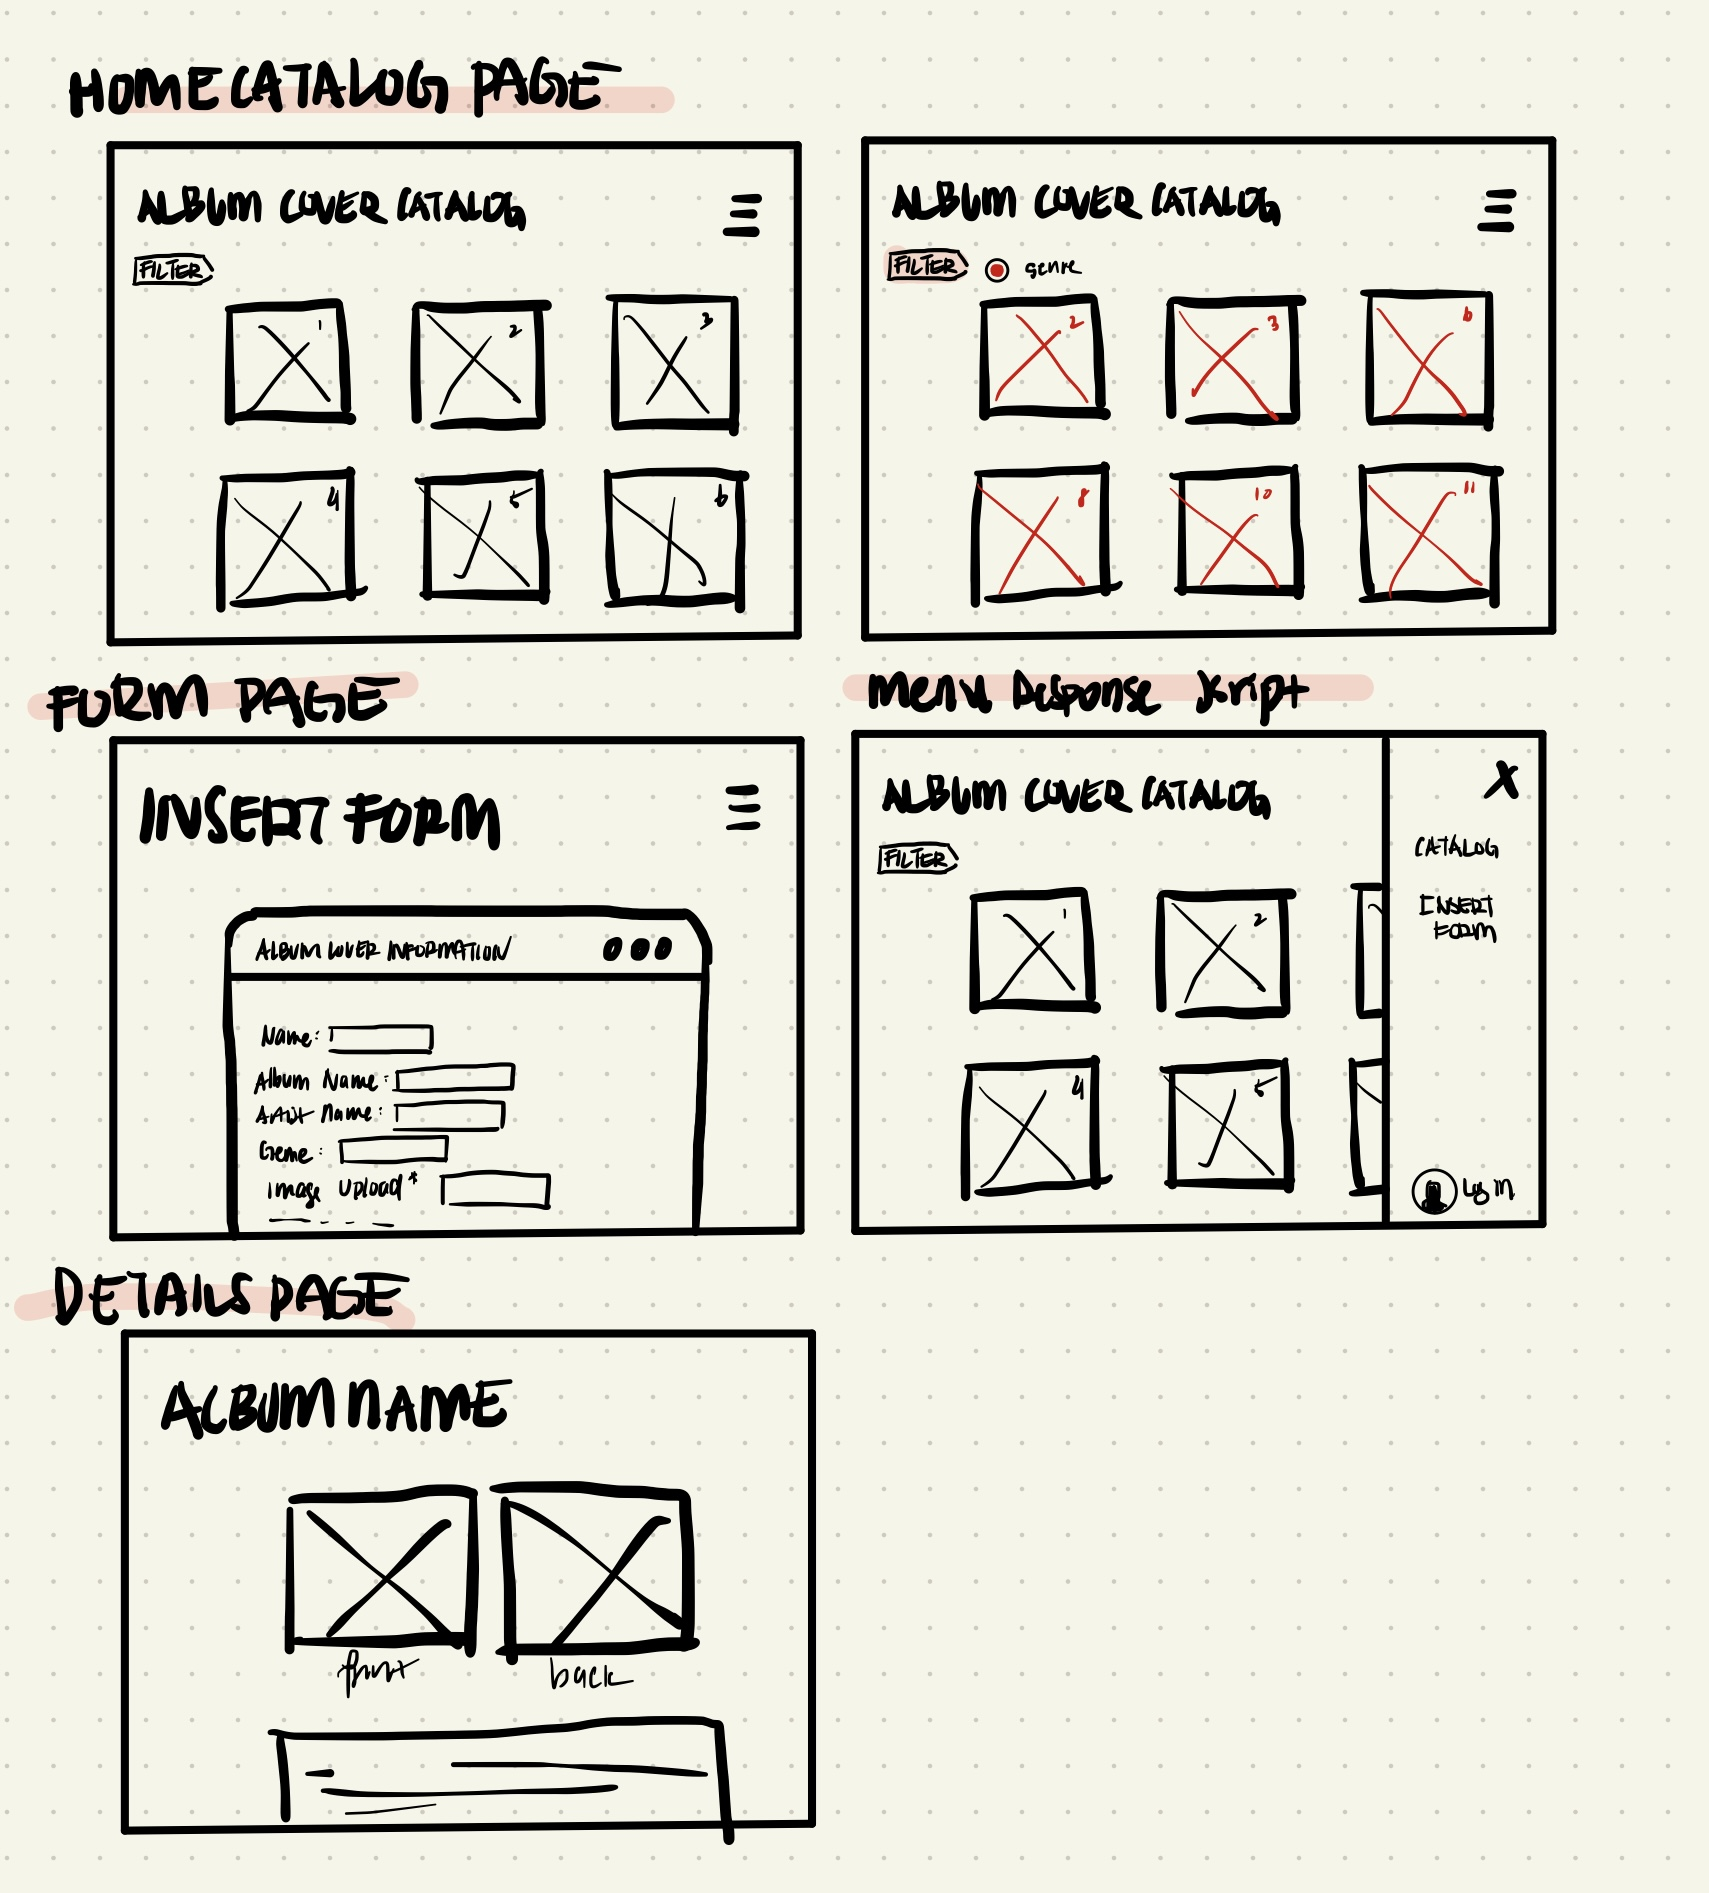
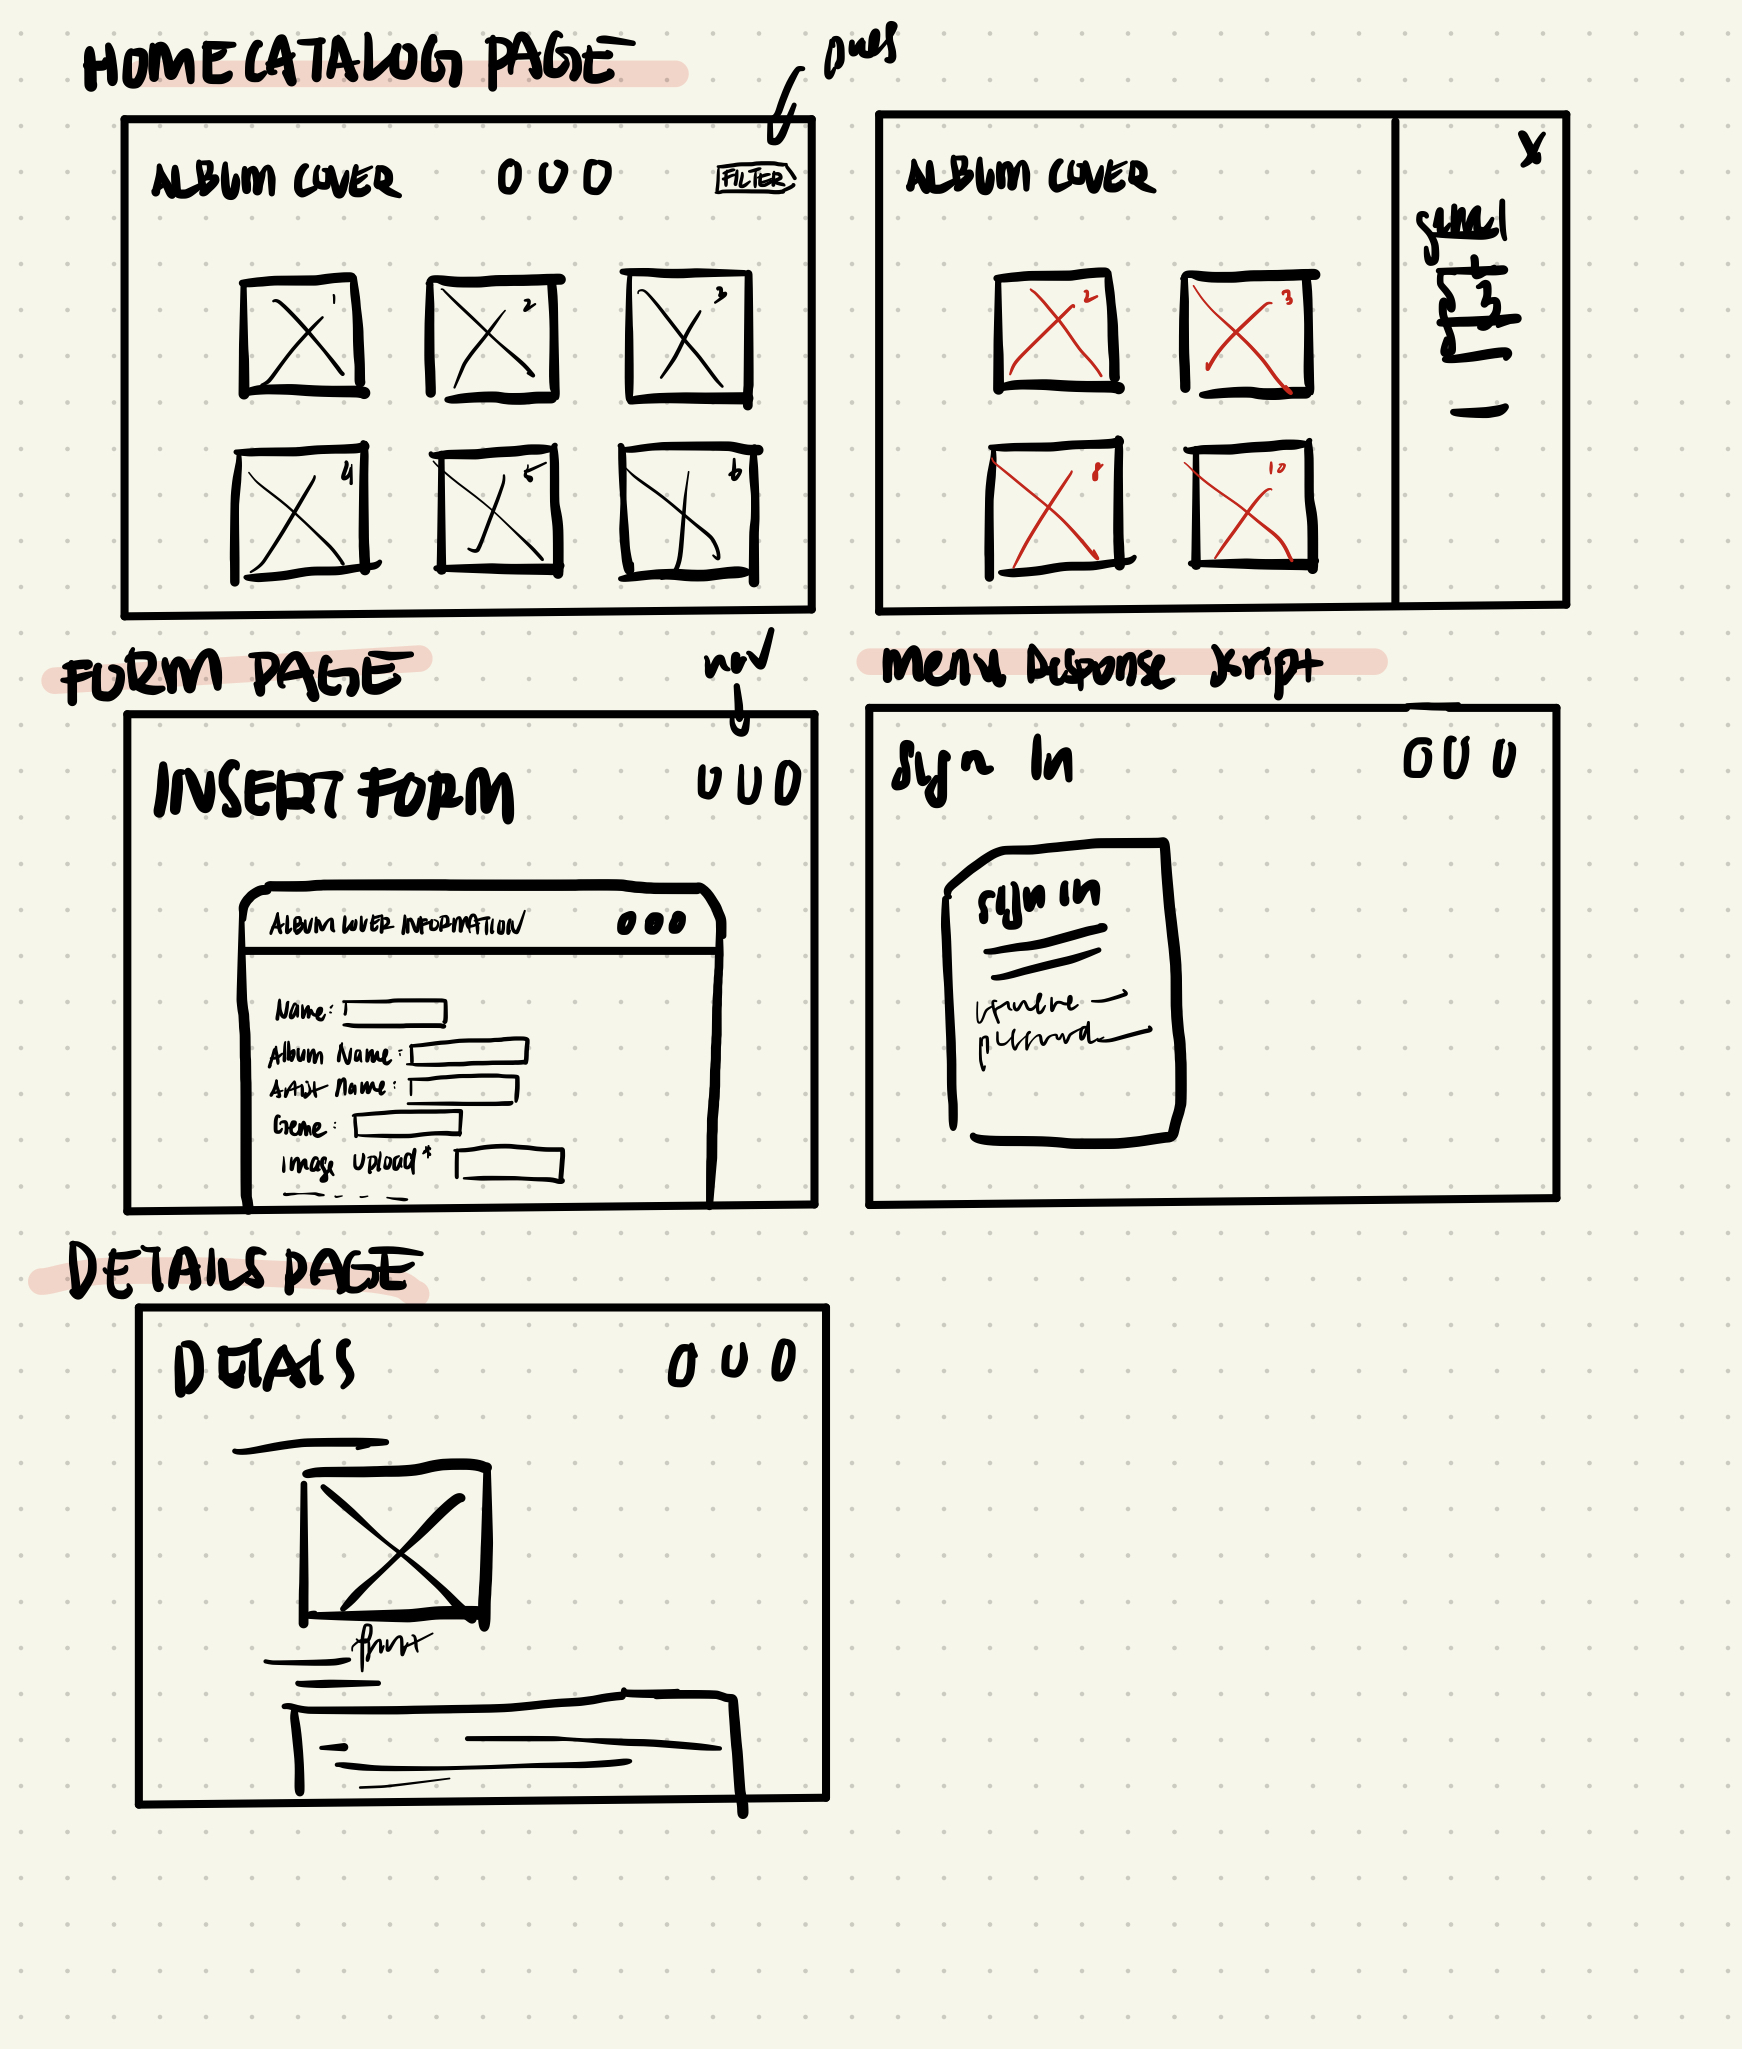
update

Changed region(s): [[0.0, 0.0, 0.9304, 0.9662], [0.093, 0.9662, 0.124, 0.9974]]

diff --git a/public/styles/site.css b/public/styles/site.css
@@ -23,7 +23,7 @@ button {
   z-index: 1;
   top: 0;
   right: 0;
-  background-color: #111;
+  background-color: #06304e;
   overflow-x: hidden;
   padding-top: 60px;
   transition: 0.5s;
@@ -61,7 +61,7 @@ button {
 /* header */
 header {
   color: #ffcdca;
-  background-color: #06304e;
+  background-color: #06304eef;
   /* padding: 1px 0 30px 0; */
     position: fixed;
     top: 0px;
@@ -92,7 +92,7 @@ header #title {
   padding-bottom: 20px;
 
   text-align: center;
-  padding-left: 250px;
+  padding-left: 75px;
   list-style: none;
 }
 
@@ -112,8 +112,34 @@ header #title {
   color:#ffcdca;;
 }
 
-#menu a:hover {
+#menu-2 a:hover {
   color: #ffcdca;;
+}
+
+#menu-2 {
+  display: inline;
+}
+
+#menu-2 ul {
+  margin-top: -75px;
+  padding-bottom: 20px;
+
+  text-align: center;
+  padding-left: 75px;
+  list-style: none;
+}
+
+#menu-2 li {
+  margin: 0;
+  display: inline-block;
+  text-decoration: none;
+  float: right;
+  padding-right: 40px;
+}
+
+#menu-2 li img {
+  width: 35px;
+  height: 35px;
 }
 
 
@@ -142,7 +168,7 @@ main.entry {
 main.entry .gallery ul {
     display: grid;
     grid-template-columns: repeat( auto-fit, 350px);
-    /* justify-content: space-around; */
+    justify-content: space-around;
     list-style: none;
     padding: 10px;
     align-items: center;
@@ -153,6 +179,7 @@ main.entry .gallery ul {
     margin: 20px;
     align-items: center;
     justify-content: center;
+    margin-left: -20px;
   }
 
   main.entry .entry li>a {

diff --git a/includes/header.php b/includes/header.php
@@ -1,7 +1,7 @@
 <header>
   <h1 id="title">ALBUM COVERS<?php echo htmlspecialchars($title); ?></h1>
 
-  <nav id="menu">
+  <nav id="menu-2">
     <ul>
       <!-- icon from https://pngtree.com/so/cd-icons -->
       <li class="<?php echo $nav_home_class; ?>"><a href="/"><img src="../public/images/cd.png" alt="filter"></a></li>

diff --git a/design-plan/design-journey.md b/design-plan/design-journey.md
@@ -141,23 +141,23 @@ Cassie
 
 **Factors that Influence Behavior:**
 
-- Exposure to a wider audience
-- The search for more inspiring creators
+- Exposure to a wider collection
+- Easy to filter through genres
 
 **Goals:**
 
-- Showcase Cassie's works on album covers
-- Joining an interactive platform and sharing inspiration for other artist's
+- Find pretty album covers and make a collection for herself
+- Know what type of genres each album is
 
 **Obstacles:**
 
-- Difficulty in finding a platform to share Cassie's highlighted works besides from her individual sites/social media
-- Finding other artists that also design album covers and searching for inspiration
+- Hard to find a collection of cool album covers to look at for design reference and for fun
+- Hard to figure out what type of albums are what genre and if there is a pattern in the art
 
 **Desires:**
 
-- Able to easily insert Cassie's works into the catalog
-- For other people to be able to view Cassies's works and perhaps have contact information for those who are interested in her works
+- Able to find different references for album designs
+- Have a easy to see grid of albums wwith details about each album as well
 
 ### Catalog Data (Milestone 1)
 > Using your personas, identify the data you need to include in the catalog for your site's audiences.
@@ -165,16 +165,13 @@ Cassie
 
 Album Name
 Artist Name
-Album Cover Designer
 Album Year Released
-Album Genre
+Album Genres
 Album Cover Illustrations
-Description
-Designer Contact Information
-Insert Form
+Upload Form
 
 
-These are important data to help Cassie reach a wider audience and being able to leave their contact information. There is also an insert form for her to insert more of her works if she wants to share more recent works. The audience is also able to know which album for which singer she designed the cover for.
+These are important data to help Cassie to have a well-rounded background of each album for her own collection. Not only will she be able to see the visuals of the album cover but more details about each album.
 
 
 ### Site Design (Milestone 1)
@@ -190,14 +187,14 @@ These are important data to help Cassie reach a wider audience and being able to
 > **Refer to your persona by name in each explanation.**
 
  ![sketch](/design-plan/sketch.jpg)
-For the catalog home page, it is a matrix style catalog with thumbnails that lead to a details page with more information of the album cover thumbnail that was pressed by Jenny. Jenny can also filter the album covers by genre with the filter button.
+For the catalog home page, it is a matrix style catalog with thumbnails that lead to a details page with more information of the album cover thumbnail that was pressed by Cassie. Cassie can add entries by pressing the upload icon in the middle.
 
-Moreover, for Cassie, there is an insert form that can be accessed when logged in and found by pressing the hamburger menu.
+Moreover, for Jenny, she can filter the album covers by genre with the filter button.
 
 ### Catalog Design Patterns (Milestone 1)
 > Explain how you used design patterns in your site's design. (1-2 sentences)
 
-I used design patterns of alignment through the matrix of thumbnails. I also used responsivenes design through the hamburger menu.
+I used design patterns of alignment through the matrix of thumbnails. I also used responsivenes design through the filter button.
 
 ## Implementation Plan (Milestone 1, Milestone 2, Milestone 3, Final Submission)
 
@@ -251,31 +248,29 @@ CREATE TABLE tags (
 > Tell us what issues you discovered during your accessibility audit.
 > What do you do to improve the accessibility of your site?
 
-TODO: audit fixes
-
+I didn't have any audit issues this times. I struggled with remembering to check the contrast errors on each page in the previous project and I remembered to check through all the pages this time.
 
 ### Self-Reflection (Final Submission)
 > Reflect on what you learned during this assignment. How have you improved from Projects 1 and 2?
 
-TODO: reflection
+I think I have understand client-side programming and php a lot better compared to projects 1 and 2 just due to the share amount of new content needed to be absrobed and impelemented.
 
 
 > Take some time here to reflect on how much you've learned since you started this class. It's often easy to ignore our own progress. Take a moment and think about your accomplishments in this class. Hopefully you'll recognize that you've accomplished a lot and that you should be very proud of those accomplishments! (1-3 sentences)
 
-TODO: reflection
-
+I think I have learned so much in this class so far despite it being a struggle recently to keep up on the progress of the project because of all the projects in other classes that are simulatenously happening. I am proud to see what I made so far but I hope I can have more time to polish the website.
 
 ### Collaborators (Final Submission)
 > List any persons you collaborated with on this project.
 
-TODO: list your collaborators
+n/a
 
 
 ### Reference Resources (Final Submission)
 > Please cite any external resources you referenced in the creation of your project.
 > (i.e. W3Schools, StackOverflow, Mozilla, etc.)
 
-TODO: list reference resources
+w3schools for js code
 
 
 ### Grading: User Accounts (Final Submission)
@@ -284,15 +279,15 @@ TODO: list reference resources
 
 **Administrator User:**
 
-- Username: TODO: username
-- Password: TODO: password
+- Username: kyle
+- Password: monkey
 
-**Consumer User:**
+- Username: mary
+- Password: monkey
 
-- Username: TODO: username
-- Password: TODO: password
 
 **Note:** Not all websites will support consumer log in. If your website doesn't, say so.
+no consumer log in
 
 
 ### Grading: Step-by-Step Instructions (Final Submission)
@@ -303,25 +298,23 @@ TODO: list reference resources
 
 _View all entries:_
 
-1. TODO: instructions
-2.
+1. The first page the code brings you to
+2. This page can also be accessed by the first icon in the header that looks like a record disc
 
 _View all entries for a tag:_
 
-1. TODO: instructions
-2.
+1. there is a filter button in the header and a side menu will appear.
+2. you can filter by pressing any of those tags
 
 _View a single entry's details:_
 
-1. TODO: instructions
-2.
+1. You can click on the image in the grid to go to details
 
 _How to insert and upload a new entry:_
 
-1. TODO: instructions
-2.
+1. the second icon in the header is the upload form
+2. there is no confirmation message, page will refresh and you can go back to the home page to view it
 
 _How to delete an entry:_
 
-1. TODO: instructions
-2.
+1.
